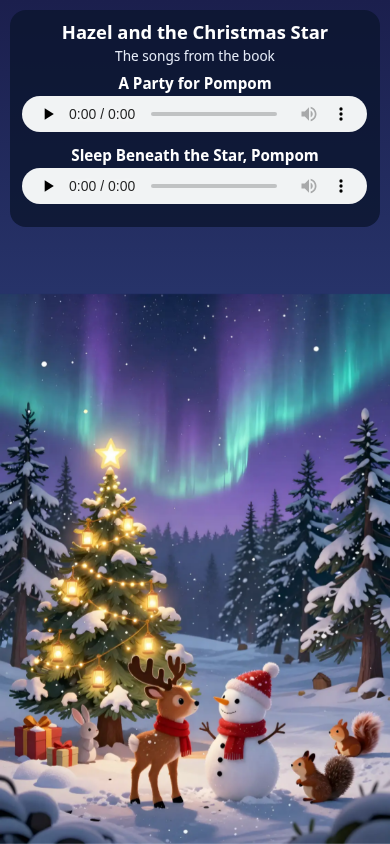
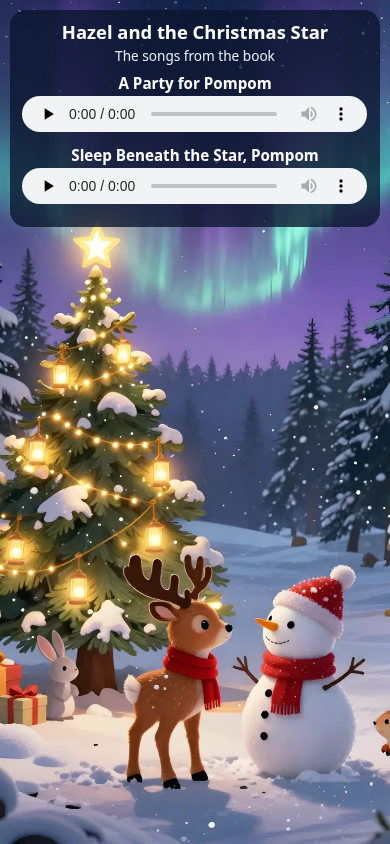
Cover fills the screen (cover), panel and song titles centered

diff --git a/index.html b/index.html
@@ -7,11 +7,11 @@
 <style>
 html,body{height:100%;margin:0}body{box-sizing:border-box;padding:.6rem;overflow-x:hidden}
 body{font-family:system-ui,sans-serif;color:#fff;text-align:center;background:linear-gradient(#1b1f4d,#2e3f7a 55%,#dbe6f4) fixed}
-body::before{content:"";position:fixed;inset:0;z-index:-1;background:url(images/couverture.webp) center bottom/contain no-repeat}
+body::before{content:"";position:fixed;inset:0;z-index:-1;background:url(images/couverture.webp) 35% 88%/cover no-repeat}
 main{position:relative;max-width:26rem;margin:0 auto;padding:.6rem .8rem;background:rgba(10,20,45,.78);border-radius:1rem}
 h1{font-size:1.15rem;margin:0 0 .1rem}p{margin:0 0 .4rem;font-size:.85rem;color:#e6ecf8}
-section{margin:.5rem 0}h2{font-size:.95rem;margin:0 0 .2rem}audio{width:100%;height:36px}
-@media (min-aspect-ratio:1/1){body::before{background-position:center center}main{position:fixed;left:1.5rem;top:1.5rem;margin:0;width:20rem}}
+section{margin:.5rem 0;text-align:center}h2{text-align:center;font-size:.95rem;margin:0 0 .2rem}audio{width:100%;height:36px}
+@media (min-aspect-ratio:1/1){body::before{background-position:50% 88%}main{position:fixed;left:50%;transform:translateX(-50%);top:1rem;margin:0;width:20rem}}
 </style>
 </head>
 <body>
